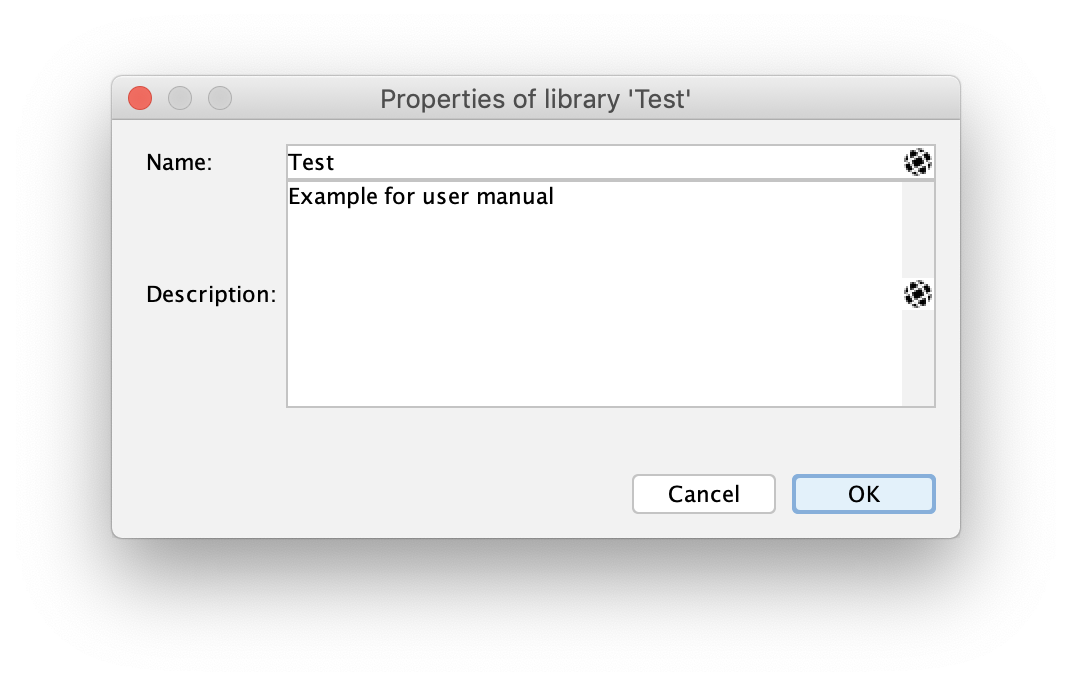
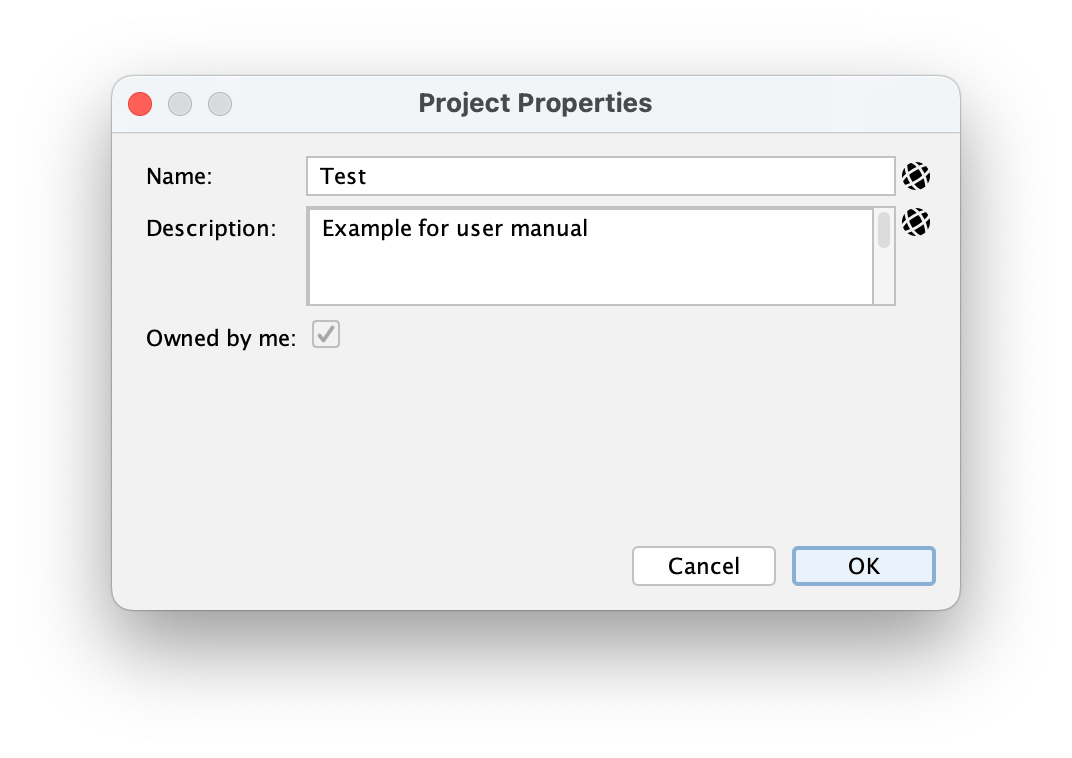
#408: Change "Owned by me" on Library

diff --git a/graph/jvm/src/main/ch/scorpion/jabbah/graph/library/LibraryPropertiesPanel.kt b/graph/jvm/src/main/ch/scorpion/jabbah/graph/library/LibraryPropertiesPanel.kt
@@ -2,6 +2,8 @@ package ch.scorpion.jabbah.graph.library
 
 import ch.scorpion.jabbah.base.Translations
 import ch.scorpion.jabbah.base.swing.EGBL
+import ch.scorpion.jabbah.edit.auth.EditAuthModule
+import ch.scorpion.jabbah.edit.auth.UserIdentity
 import ch.scorpion.jabbah.edit.model.text.TranslatableText
 import ch.scorpion.jabbah.edit.properties.TranslatablePropertyEditor
 import ch.scorpion.jabbah.graph.module.GraphModuleJvm
@@ -9,12 +11,15 @@ import ch.scorpion.jabbah.graph.view.LibraryVisibilityEditor
 import java.awt.Component
 import java.awt.Dimension
 import java.awt.Frame
+import javax.swing.JCheckBox
 import javax.swing.JLabel
 import javax.swing.JOptionPane
 import javax.swing.JPanel
 
 /** A [JPanel] for editing the properties of a [Library].*/
 class LibraryPropertiesPanel(
+	supportOwnership: Boolean,
+	isSystem: Boolean,
 	properties: LibraryProperties? = null,
 	editable: Boolean = true
 ) : JPanel() {
@@ -23,10 +28,12 @@ class LibraryPropertiesPanel(
 		fun showAsDialog(
 			parent: Component = Frame.getFrames()[0],
 			title: String,
+			supportOwnership: Boolean,
+			isSystem: Boolean,
 			properties: LibraryProperties? = null,
-			editable: Boolean = true
+			editable: Boolean = true,
 		): LibraryProperties? {
-			val panel = LibraryPropertiesPanel(properties, editable)
+			val panel = LibraryPropertiesPanel(supportOwnership, isSystem, properties, editable)
 			return when (
 				JOptionPane.showConfirmDialog(
 					parent,
@@ -38,7 +45,9 @@ class LibraryPropertiesPanel(
 				JOptionPane.OK_OPTION -> LibraryProperties(
 					panel.nameField.value as TranslatableText,
 					panel.descField.value as TranslatableText,
-					panel.visibilityField.value as LibraryVisibility)
+					panel.visibilityField.value as LibraryVisibility,
+					if (panel.ownedByMeField.isSelected) EditAuthModule.userHolder.user.identity else panel.oldAuthor
+				)
 				else -> null
 			}
 		}
@@ -50,21 +59,46 @@ class LibraryPropertiesPanel(
 	private val descField = TranslatablePropertyEditor(descLabel, multiline = { true }, rows = 8, editable = editable)
 	private val visibilityLabel = Translations.getString("library.property.visibility.name")
 	private val visibilityField = LibraryVisibilityEditor()
+	private val ownedByMeLabel = Translations.getString("library.property.ownedByMe.name")
+	private val ownedByMeField = JCheckBox()
+	private val oldAuthor: UserIdentity? = properties?.author
 
 	init {
 		preferredSize = Dimension(400, 180)
 		visibilityField.customEditor.isEnabled = editable
 
-		buildUI()
+		ownedByMeField.isEnabled = !isSystem && oldAuthor != EditAuthModule.userHolder.user.identity
+		ownedByMeField.addActionListener {
+			if (ownedByMeField.isSelected) {
+				updateOwnedByMe(confirmOwnByMe())
+			} else {
+				updateEnabledness(editable)
+			}
+		}
+
+		buildUI(supportOwnership)
 
 		properties?.let {
 			nameField.value = it.name
 			descField.value = it.description
 			visibilityField.value = it.visibility
+			ownedByMeField.isSelected = it.author == EditAuthModule.userHolder.user.identity
 		}
 	}
 
-	private fun buildUI() {
+	private fun updateOwnedByMe(ownedByMe: Boolean) {
+		ownedByMeField.isSelected = ownedByMe
+		updateEnabledness(ownedByMe)
+	}
+
+	private fun updateEnabledness(enabled: Boolean) {
+		nameField.textComponent.isEditable = enabled
+		descField.textComponent.isEditable = enabled
+		visibilityField.customEditor.isEnabled = enabled
+	}
+
+	private fun buildUI(supportOwnership: Boolean) {
+		var row = -1
 		val inset = 5
 		val rowDist = 5
 		layout = EGBL.getLayout()
@@ -72,7 +106,7 @@ class LibraryPropertiesPanel(
 		EGBL.add(
 			this,
 			JLabel("$nameLabel:"),
-			0, 0,
+			0, ++row,
 			1, 1,
 			0.0, 0.0,
 			EGBL.WEST,
@@ -83,7 +117,7 @@ class LibraryPropertiesPanel(
 		EGBL.add(
 			this,
 			nameField.customEditor,
-			1, 0,
+			1, row,
 			EGBL.REMAINDER, 1,
 			0.0, 0.0,
 			EGBL.WEST,
@@ -94,7 +128,7 @@ class LibraryPropertiesPanel(
 		EGBL.add(
 			this,
 			JLabel("$descLabel:"),
-			0, 1,
+			0, ++row,
 			1, 1,
 			0.0, 0.0,
 			EGBL.NORTHWEST,
@@ -102,10 +136,11 @@ class LibraryPropertiesPanel(
 			4 + rowDist, inset, 0, 0
 		)
 
+		descField.customEditor.preferredSize = Dimension(descField.customEditor.preferredSize.width, 50)
 		EGBL.add(
 			this,
 			descField.customEditor,
-			1, 1,
+			1, row,
 			EGBL.REMAINDER, 1,
 			0.0, 0.0,
 			EGBL.WEST,
@@ -113,11 +148,35 @@ class LibraryPropertiesPanel(
 			rowDist, inset, 0, 0
 		)
 
+		if (supportOwnership) {
+			EGBL.add(
+				this,
+				JLabel("$ownedByMeLabel:"),
+				0, ++row,
+				1, 1,
+				0.0, 0.0,
+				EGBL.NORTHWEST,
+				EGBL.NONE,
+				4 + rowDist, inset, 0, 0
+			)
+
+			EGBL.add(
+				this,
+				ownedByMeField,
+				1, row,
+				EGBL.REMAINDER, 1,
+				0.0, 0.0,
+				EGBL.WEST,
+				EGBL.HORIZONTAL,
+				rowDist, inset, 0, 0
+			)
+		}
+
 		if (GraphModuleJvm.supportWeb) {
 			EGBL.add(
 				this,
 				JLabel("$visibilityLabel:"),
-				0, 2,
+				0, ++row,
 				1, 1,
 				0.0, 0.0,
 				EGBL.WEST,
@@ -128,7 +187,7 @@ class LibraryPropertiesPanel(
 			EGBL.add(
 				this,
 				visibilityField.customEditor,
-				1, 2,
+				1, row,
 				EGBL.REMAINDER, 1,
 				0.0, 0.0,
 				EGBL.WEST,
@@ -141,11 +200,20 @@ class LibraryPropertiesPanel(
 		EGBL.add(
 			this,
 			filler,
-			10, 10,
+			10, ++row,
 			EGBL.REMAINDER, EGBL.REMAINDER,
 			1.0, 1.0,
 			EGBL.NORTHWEST,
 			EGBL.BOTH
 		)
 	}
+
+	private fun confirmOwnByMe(): Boolean =
+		JOptionPane.showConfirmDialog(
+			parent,
+			Translations.getString("library.action.ownByMe.text"),
+			Translations.getString("library.action.ownByMe.name"),
+			JOptionPane.OK_CANCEL_OPTION,
+			JOptionPane.WARNING_MESSAGE
+		) == JOptionPane.OK_OPTION
 }

diff --git a/graph/jvm/src/main/ch/scorpion/jabbah/graph/library/LibraryPropertiesAction.kt b/graph/jvm/src/main/ch/scorpion/jabbah/graph/library/LibraryPropertiesAction.kt
@@ -17,6 +17,7 @@ abstract class AbstractLibraryPropertiesAction(
 ) : AbstractAction(baseName) {
 
 	protected abstract val isEditable: Boolean
+	protected abstract val isSystem: Boolean
 	protected abstract val currentProperties: LibraryProperties
 	protected abstract val dialogTitle: String
 	protected abstract val emptyMessage: String
@@ -30,6 +31,8 @@ abstract class AbstractLibraryPropertiesAction(
 		while (true) {
 			properties = LibraryPropertiesPanel.showAsDialog(
 				title = title,
+				supportOwnership = true,
+				isSystem = isSystem,
 				properties = properties,
 				editable = isEditable
 			)
@@ -72,6 +75,8 @@ class LibraryPropertiesAction(
 	baseName = "library.action.properties"
 ) {
 	override val isEditable: Boolean get() = Authorizer.isCurrentUserAuthorizedTo(Operation.Change, libraryHolder.library)
+
+	override val isSystem: Boolean get() = libraryHolder.library.isSystem
 
 	override val currentProperties: LibraryProperties get() = libraryHolder.library.properties
 

diff --git a/graph/shared/src/main/ch/scorpion/jabbah/graph/library/Library.kt b/graph/shared/src/main/ch/scorpion/jabbah/graph/library/Library.kt
@@ -106,14 +106,16 @@ data class LibraryIdentification(
 data class LibraryProperties(
 	val name: TranslatableText = TranslatableText(),
 	val description: TranslatableText = TranslatableText(),
-	val visibility: LibraryVisibility = LibraryVisibility.Private
+	val visibility: LibraryVisibility = LibraryVisibility.Private,
+	val author: UserIdentity? = null
 ) {
 	companion object {
 		fun ofLibrary(library: Library): LibraryProperties =
 			LibraryProperties(
 				library.name.translation,
 				library.description.translation,
-				library.visibility)
+				library.visibility,
+				library.author)
 	}
 }
 

diff --git a/graph/jvm/src/main/ch/scorpion/jabbah/graph/project/ProjectPropertiesAction.kt b/graph/jvm/src/main/ch/scorpion/jabbah/graph/project/ProjectPropertiesAction.kt
@@ -16,6 +16,8 @@ class ProjectPropertiesAction(
 
 	override val isEditable: Boolean get() = Authorizer.isCurrentUserAuthorizedTo(Operation.Change, projectHolder.project!!)
 
+	override val isSystem: Boolean get() = false
+
 	override val currentProperties: LibraryProperties get() = projectHolder.project!!.properties
 
 	override val dialogTitle: String get() = Translations.getString("project.dialog.properties.title", currentProperties.name.getTranslation())

diff --git a/graph/shared/src/main/ch/scorpion/jabbah/graph/project/ProjectManagementService.kt b/graph/shared/src/main/ch/scorpion/jabbah/graph/project/ProjectManagementService.kt
@@ -133,6 +133,10 @@ class ProjectManagementService(
 			dictionaryService.rename(project, properties.name)
 		}
 
+		if (properties.author != null && properties.author != project.author) {
+			LOG.userTrail("Changing author of Project ${project.uuid}")
+		}
+
 		project.properties = properties
 		libraryService.storeLibrary(project)
 		dictionaryService.update(project, properties)

diff --git a/graph/jvm/src/main/ch/scorpion/jabbah/graph/project/ProjectPersistencePanel.kt b/graph/jvm/src/main/ch/scorpion/jabbah/graph/project/ProjectPersistencePanel.kt
@@ -241,6 +241,8 @@ class ProjectPersistencePanel(
 			var properties: LibraryProperties?
 			while (true) {
 				properties = LibraryPropertiesPanel.showAsDialog(
+					supportOwnership = false,
+					isSystem = false,
 					parent = this@ProjectPersistencePanel,
 					title = Translations.getString("project.dialog.new.dialog.title"))
 				if (properties == null) {

diff --git a/edit/jvm/src/main/ch/scorpion/jabbah/edit/properties/TranslatableProperty.kt b/edit/jvm/src/main/ch/scorpion/jabbah/edit/properties/TranslatableProperty.kt
@@ -68,7 +68,7 @@ class TranslatablePropertyEditor(
 	private val editable: Boolean = true
 ) : AbstractPropertyEditor() {
 
-	private val textComponent: JTextComponent
+	val textComponent: JTextComponent
 	private var text: Translatable = TranslatableText()
 
 	init {

diff --git a/graph/shared/src/main/ch/scorpion/jabbah/graph/library/LibraryImpl.kt b/graph/shared/src/main/ch/scorpion/jabbah/graph/library/LibraryImpl.kt
@@ -197,6 +197,7 @@ open class LibraryImpl(
 			name = Name(value.name)
 			description = Description(value.description)
 			visibility = value.visibility
+			value.author?.let { author = it }
 		}
 
 	override fun bindLibraryItems() {

diff --git a/graph/shared/src/main/ch/scorpion/jabbah/graph/library/dictionary/LibraryDictionary.kt b/graph/shared/src/main/ch/scorpion/jabbah/graph/library/dictionary/LibraryDictionary.kt
@@ -142,5 +142,6 @@ class LibraryDictionaryEntry(
 		name = Name(properties.name)
 		description = Description(properties.description)
 		visibility = properties.visibility
+		properties.author?.let { author = it }
 	}
 }
